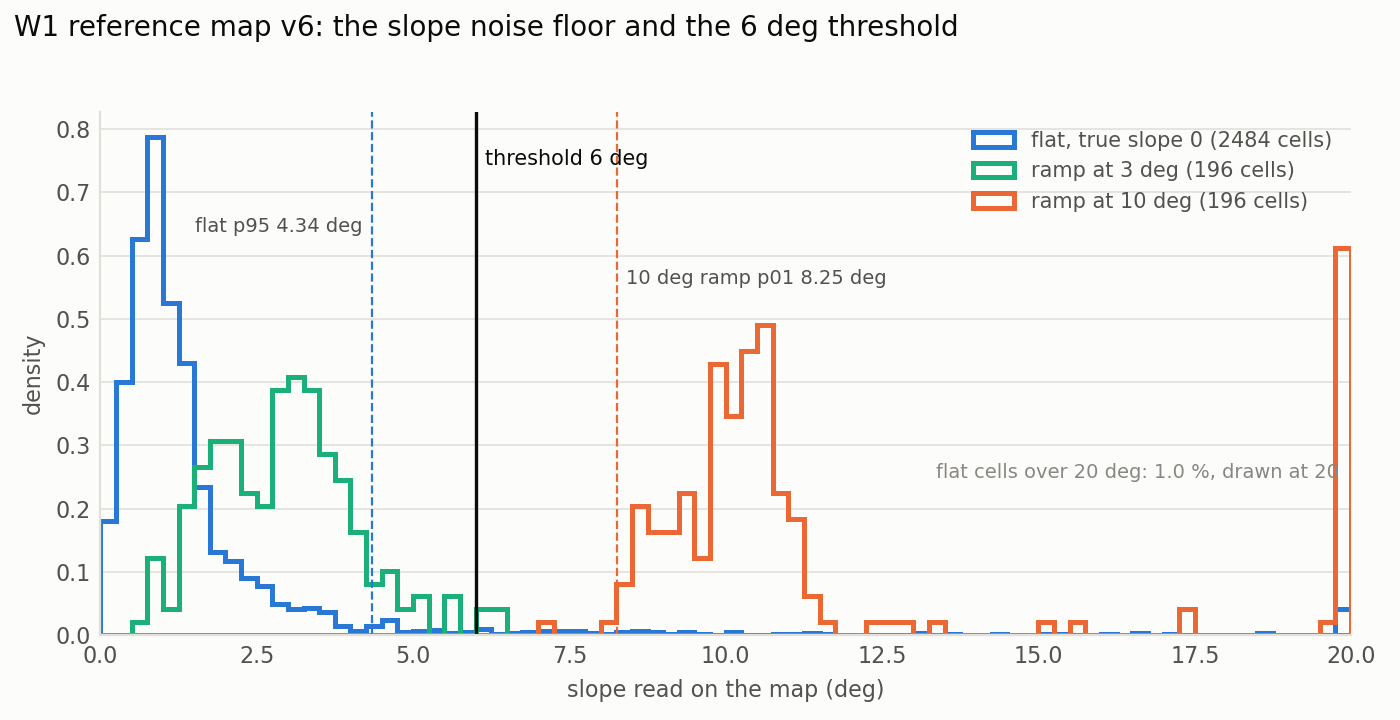
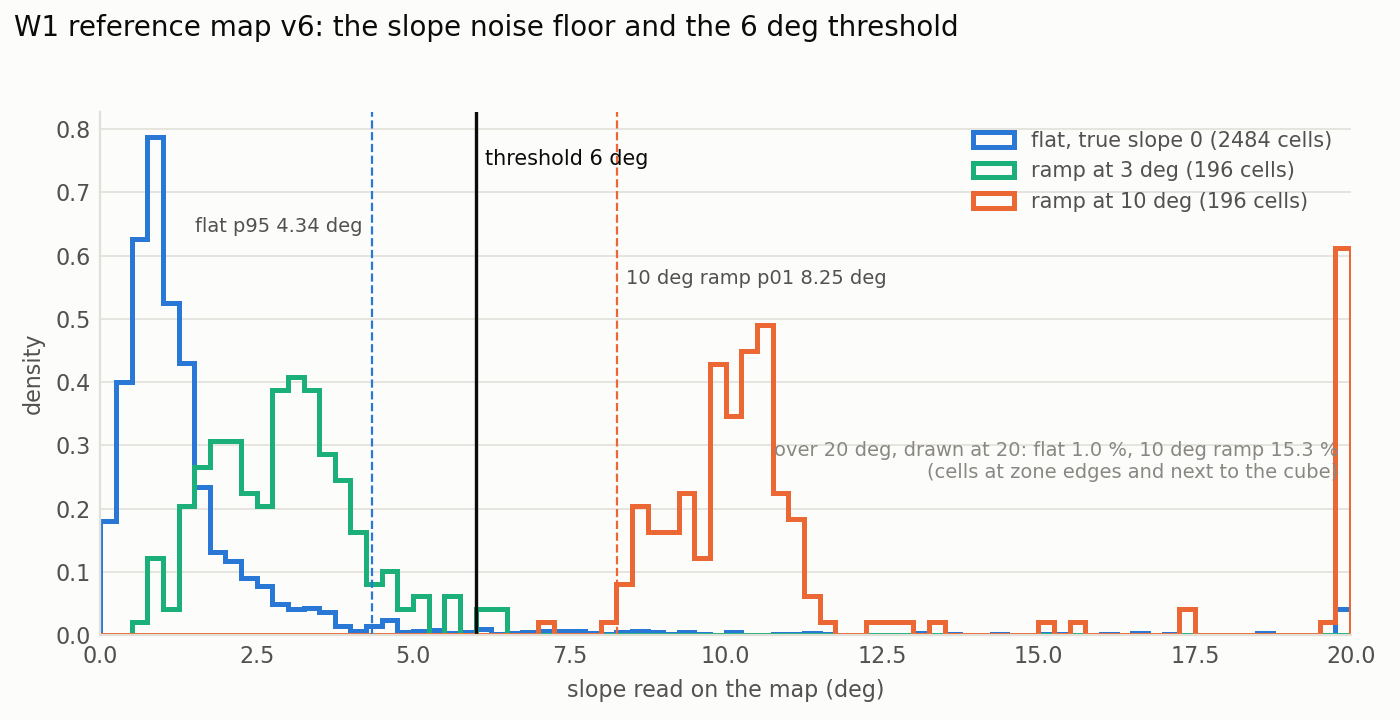
F5: fix the tail label (a broken line in the f-string); figure re-rendered

Changed region(s): [[0.5529, 0.6111, 0.9521, 0.6722]]

diff --git a/experiments/2026-10-24_thesis_figures/f5_slope_noise.py b/experiments/2026-10-24_thesis_figures/f5_slope_noise.py
@@ -122,8 +122,7 @@ def main():
     ax.text(p01 + 0.15, top * 0.70, f'10 deg ramp p01 {p01:.2f} deg',
             color=INK2, fontsize=7, va='top')
     ax.text(CLIP - 0.2, top * 0.30, f'over {CLIP:.0f} deg, drawn at '
-            f'{CLIP:.0f}: flat {tail:.1f} %, 10 deg ramp {tail10:.1f} %
-'
+            f'{CLIP:.0f}: flat {tail:.1f} %, 10 deg ramp {tail10:.1f} %\n'
             f'(cells at zone edges and next to the cube)', color=MUTED,
             fontsize=7, ha='right')
     ax.set_xlim(0, CLIP)
